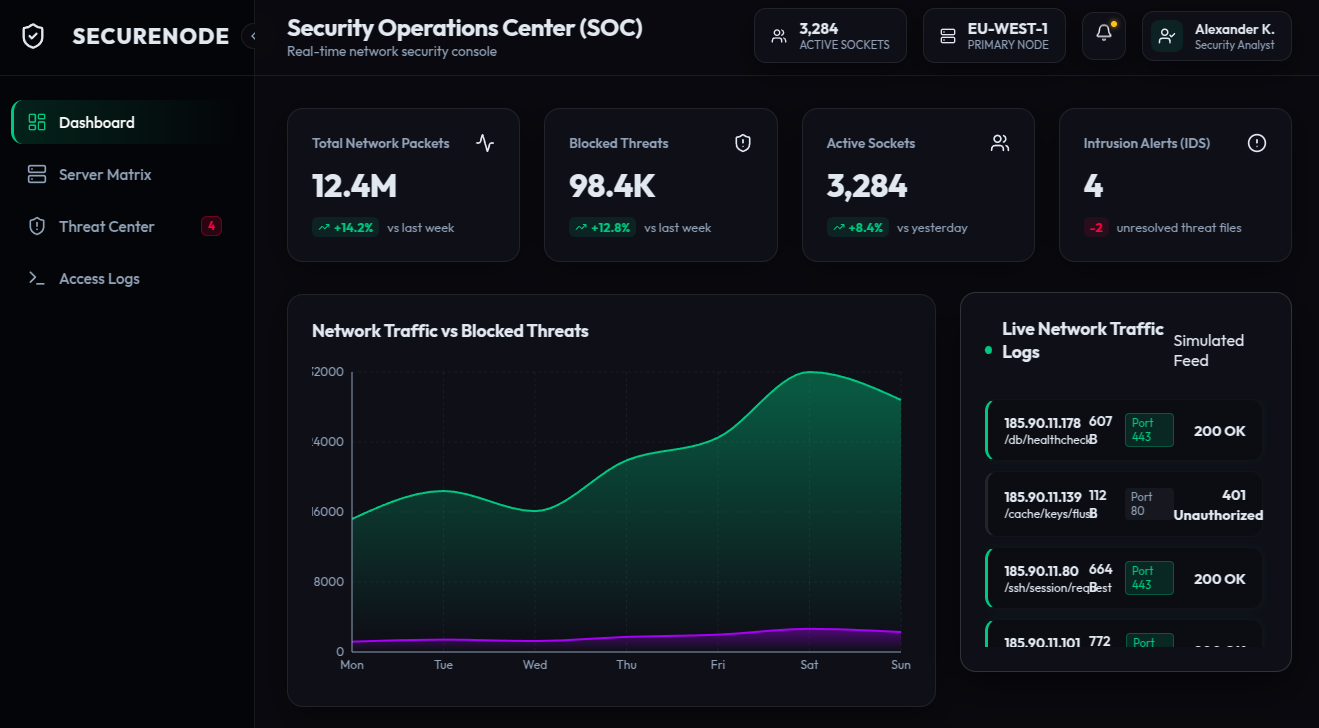
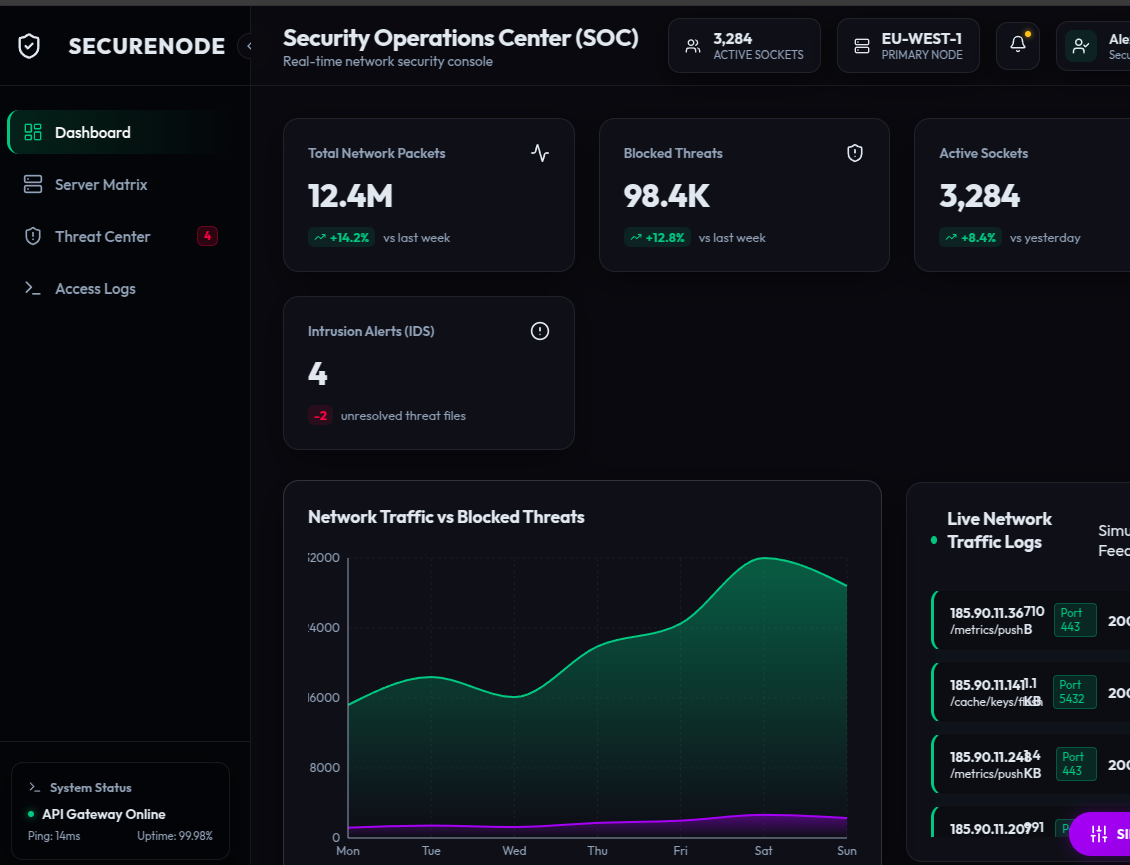
style: reposition cybersecurity project and update project image

diff --git a/index.html b/index.html
@@ -124,6 +124,43 @@
             </div>
           </div>
         </section>
+        <section class="security-operations">
+          <a
+            href="https://lelyaler.github.io/Security-Operations/"
+            class="image"
+            target="_blank"
+            ><img
+              src="images/Security-Operations.png"
+              alt=""
+              data-position="25% 25%"
+          /></a>
+          <div class="content">
+            <div class="inner">
+              <h2>Cybersecurity Operations Center</h2>
+              <p></p>
+              <ul class="summary">
+                <li>
+                  <a
+                    href="https://lelyaler.github.io/Security-Operations/"
+                    class="button"
+                    target="_blank"
+                    >View</a
+                  >
+                </li>
+              </ul>
+              <ul class="summary">
+                <li>
+                  <a
+                    href="https://github.com/Lelyaler/Security-Operations"
+                    class="button"
+                    target="_blank"
+                    >Code</a
+                  >
+                </li>
+              </ul>
+            </div>
+          </div>
+        </section>
         <section class="crypto-sticky">
           <a
             href="https://lelyaler.github.io/crypto-sticky/"
@@ -461,40 +498,6 @@
                 <li>
                   <a
                     href="https://github.com/Lelyaler/Travel-website"
-                    class="button"
-                    target="_blank"
-                    >Code</a
-                  >
-                </li>
-              </ul>
-            </div>
-          </div>
-        </section>
-        <section class="security-operations">
-          <a
-            href="https://lelyaler.github.io/Security-Operations/"
-            class="image"
-            target="_blank"
-            ><img src="images/Security-Operations.png" alt="" data-position="25% 25%"
-          /></a>
-          <div class="content">
-            <div class="inner">
-              <h2>Cybersecurity Operations Center</h2>
-              <p></p>
-              <ul class="summary">
-                <li>
-                  <a
-                    href="https://lelyaler.github.io/Security-Operations/"
-                    class="button"
-                    target="_blank"
-                    >View</a
-                  >
-                </li>
-              </ul>
-              <ul class="summary">
-                <li>
-                  <a
-                    href="https://github.com/Lelyaler/Security-Operations"
                     class="button"
                     target="_blank"
                     >Code</a